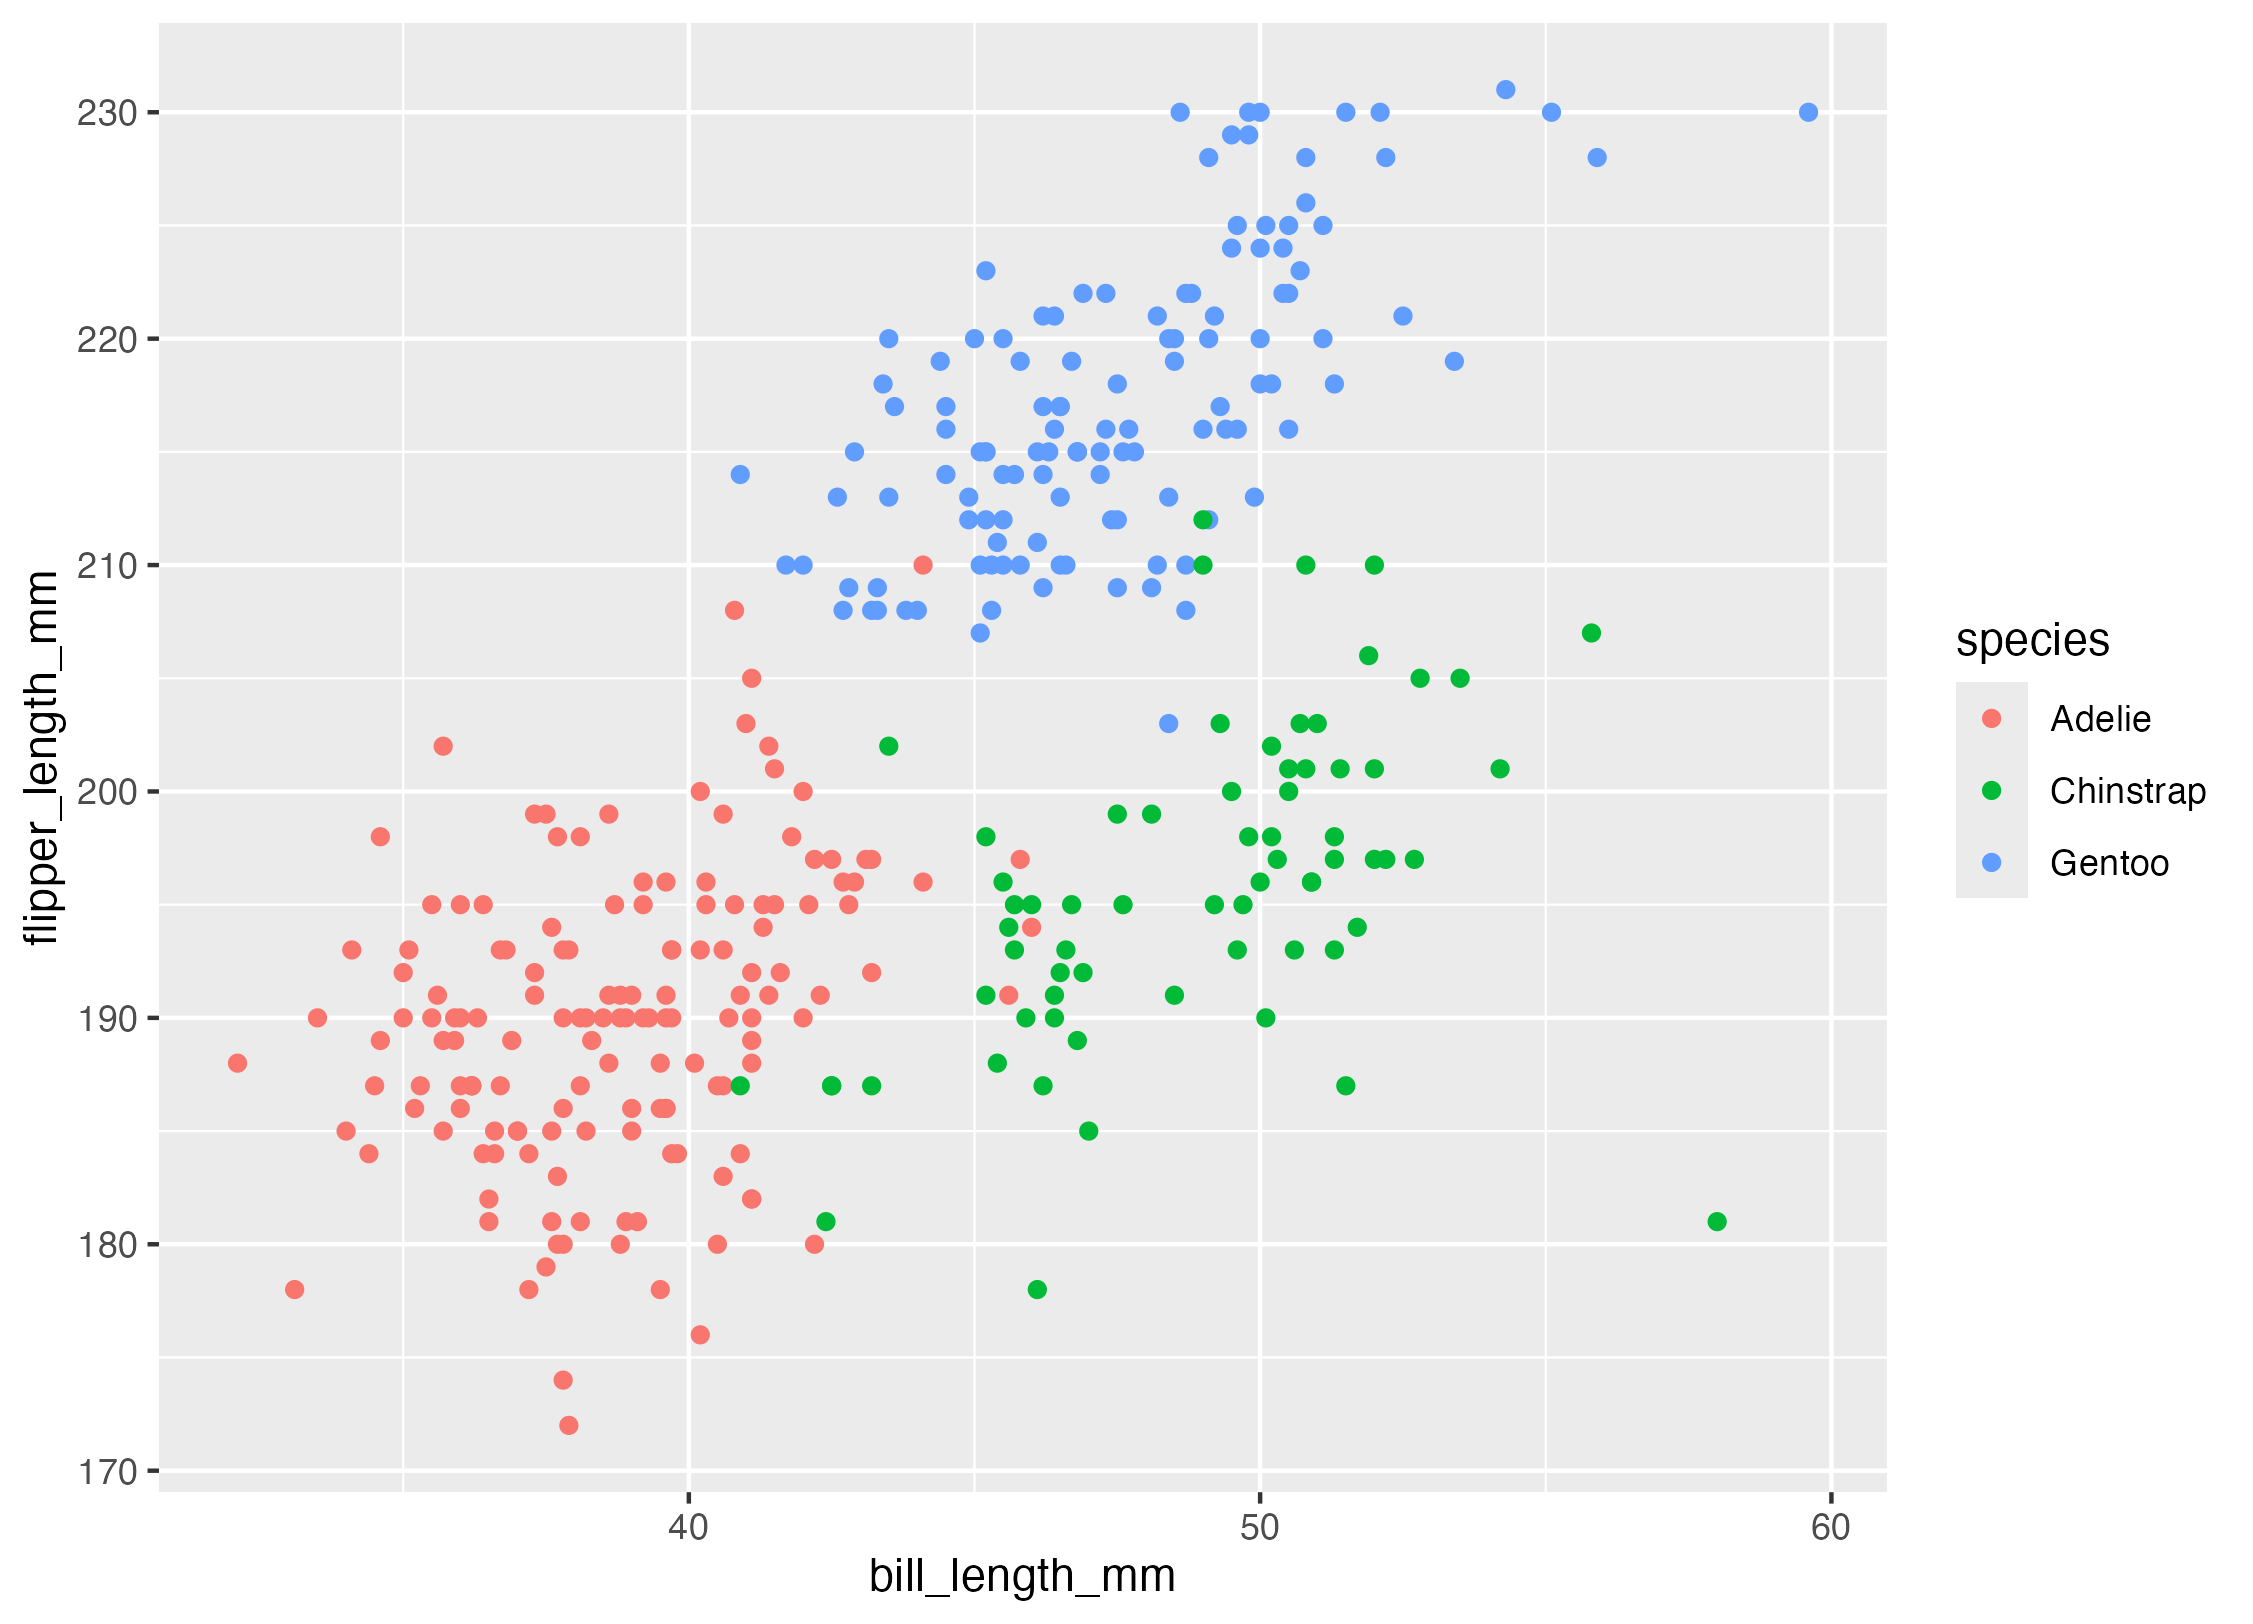
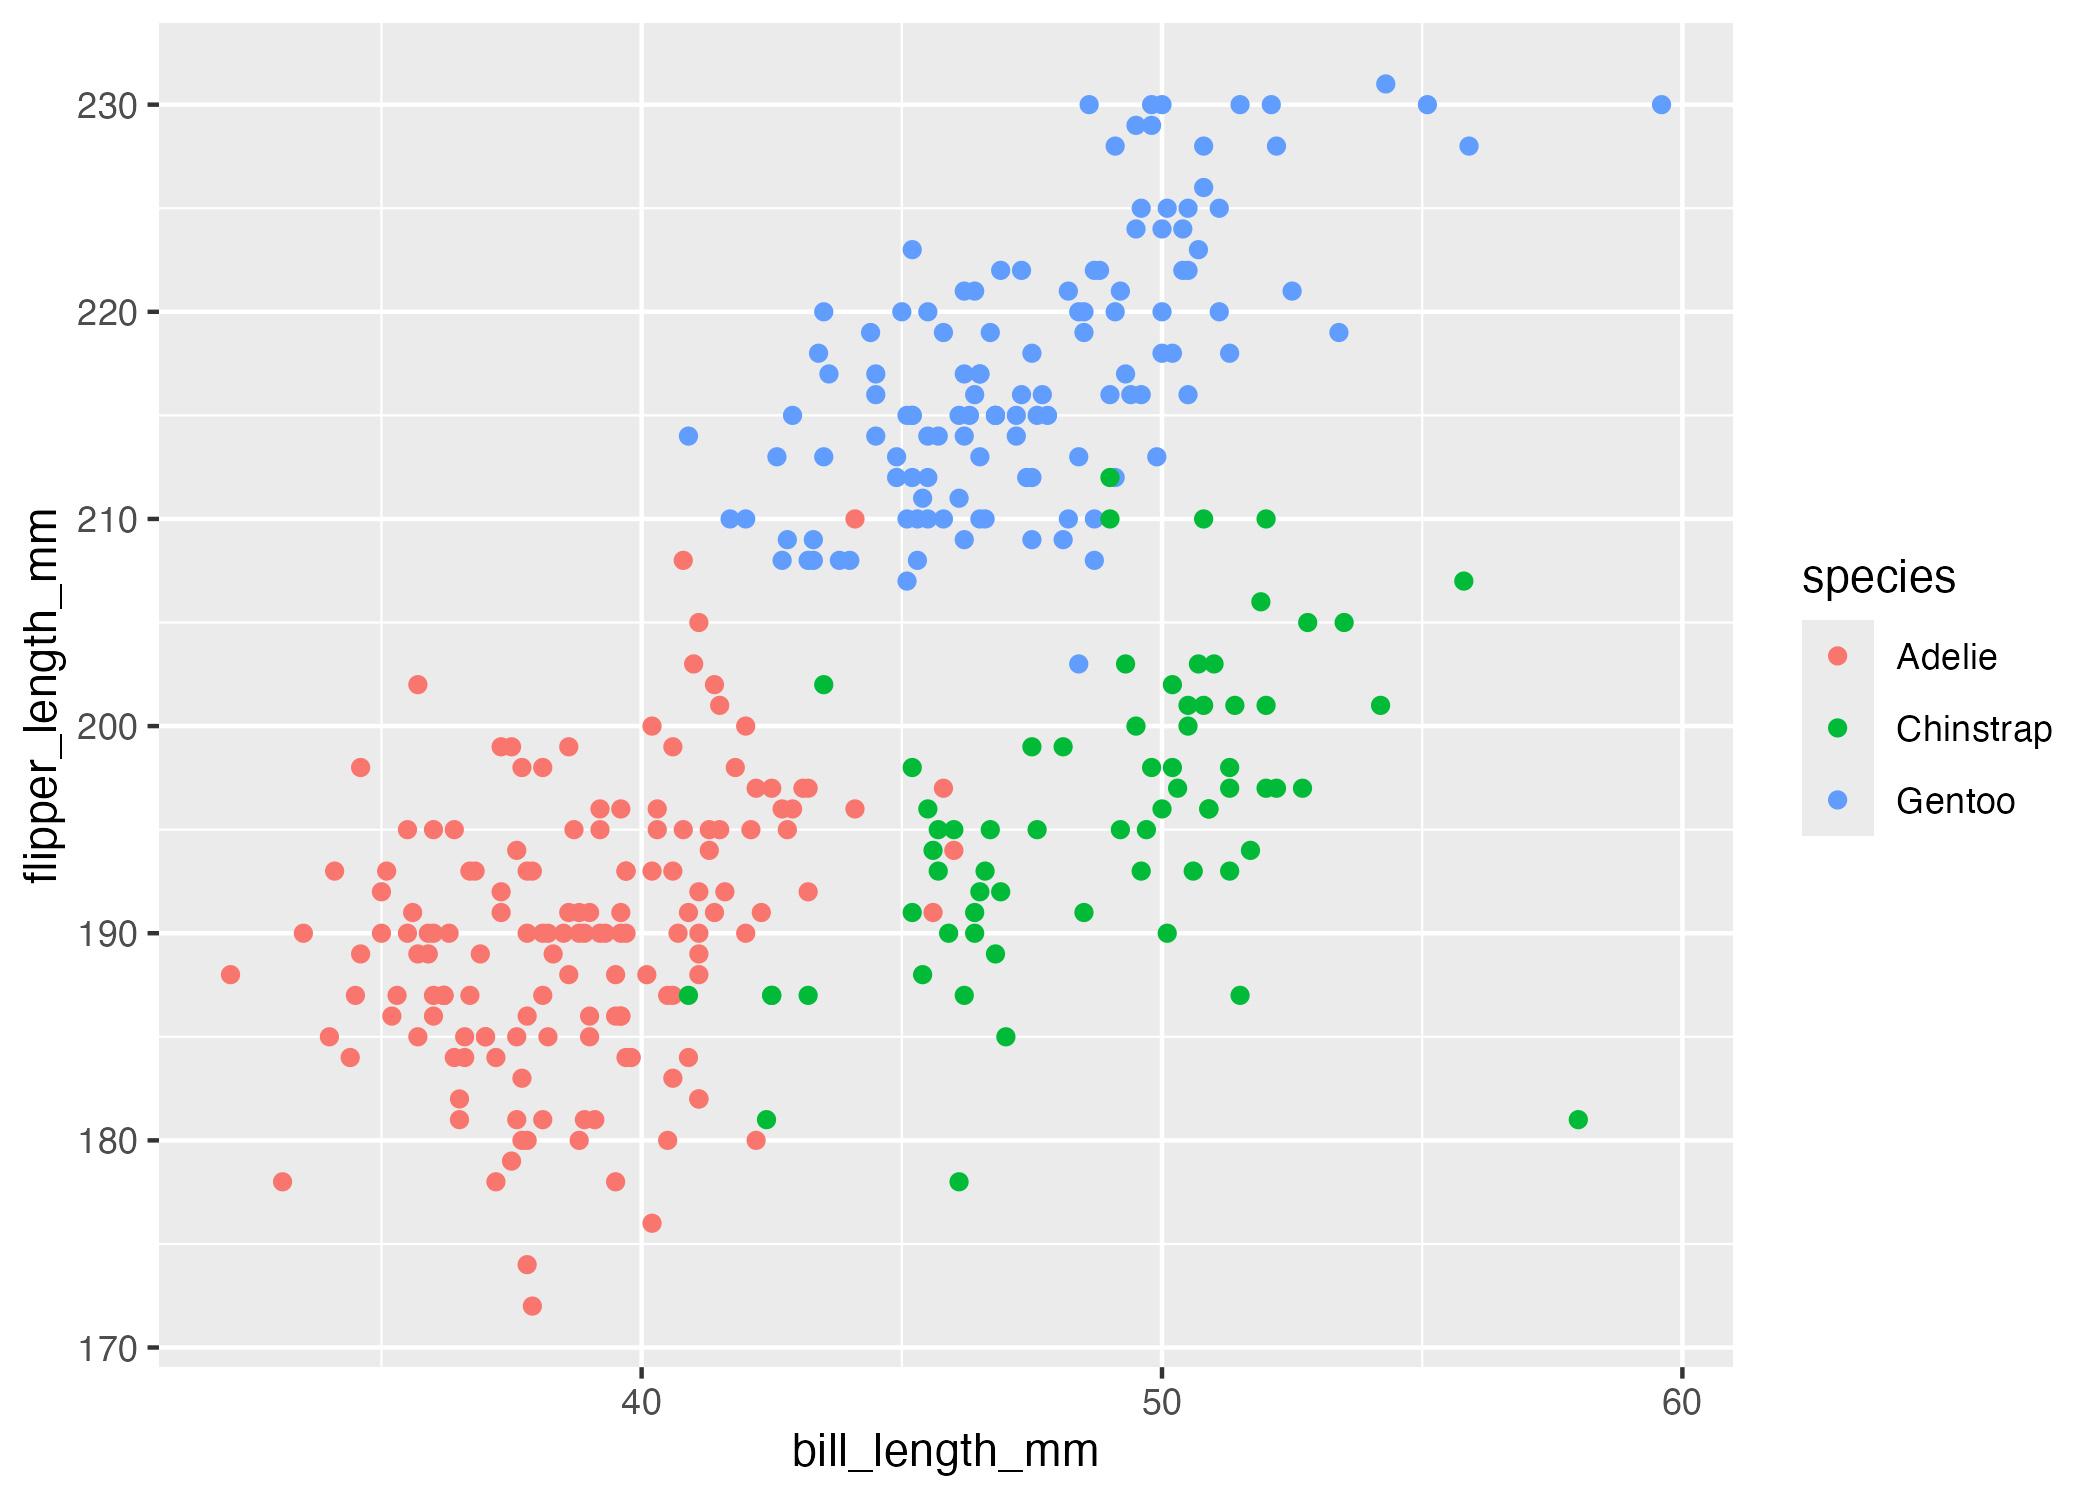
changed document html --> github

diff --git a/p8105_hw1_dt2833.md b/p8105_hw1_dt2833.md
@@ -1,0 +1,153 @@
+Hw01
+================
+Dominique Tzou
+2026-09-26
+
+``` r
+library(tidyverse) #loading in tidyverse, to use the pull function later
+```
+
+    ## ── Attaching core tidyverse packages ──────────────────────── tidyverse 2.0.0 ──
+    ## ✔ dplyr     1.2.1     ✔ readr     2.2.0
+    ## ✔ forcats   1.0.1     ✔ stringr   1.6.0
+    ## ✔ ggplot2   4.0.3     ✔ tibble    3.3.1
+    ## ✔ lubridate 1.9.5     ✔ tidyr     1.3.2
+    ## ✔ purrr     1.2.2     
+    ## ── Conflicts ────────────────────────────────────────── tidyverse_conflicts() ──
+    ## ✖ dplyr::filter() masks stats::filter()
+    ## ✖ dplyr::lag()    masks stats::lag()
+    ## ℹ Use the conflicted package (<http://conflicted.r-lib.org/>) to force all conflicts to become errors
+
+# Problem 1
+
+``` r
+data("penguins", package = "palmerpenguins") #Loading in penguins dataset
+penguins = janitor::clean_names(penguins) #cleaning names
+```
+
+## Summary of the penguin dataset and variables
+
+|                                                  |          |
+|:-------------------------------------------------|:---------|
+| Name                                             | penguins |
+| Number of rows                                   | 344      |
+| Number of columns                                | 8        |
+| \_\_\_\_\_\_\_\_\_\_\_\_\_\_\_\_\_\_\_\_\_\_\_   |          |
+| Column type frequency:                           |          |
+| factor                                           | 3        |
+| numeric                                          | 5        |
+| \_\_\_\_\_\_\_\_\_\_\_\_\_\_\_\_\_\_\_\_\_\_\_\_ |          |
+| Group variables                                  | None     |
+
+Data summary
+
+**Variable type: factor**
+
+| skim_variable | n_missing | complete_rate | ordered | n_unique | top_counts |
+|:---|---:|---:|:---|---:|:---|
+| species | 0 | 1.00 | FALSE | 3 | Ade: 152, Gen: 124, Chi: 68 |
+| island | 0 | 1.00 | FALSE | 3 | Bis: 168, Dre: 124, Tor: 52 |
+| sex | 11 | 0.97 | FALSE | 2 | mal: 168, fem: 165 |
+
+**Variable type: numeric**
+
+| skim_variable | n_missing | complete_rate | mean | sd | p0 | p25 | p50 | p75 | p100 | hist |
+|:---|---:|---:|---:|---:|---:|---:|---:|---:|---:|:---|
+| bill_length_mm | 2 | 0.99 | 43.92 | 5.46 | 32.1 | 39.23 | 44.45 | 48.5 | 59.6 | ▃▇▇▆▁ |
+| bill_depth_mm | 2 | 0.99 | 17.15 | 1.97 | 13.1 | 15.60 | 17.30 | 18.7 | 21.5 | ▅▅▇▇▂ |
+| flipper_length_mm | 2 | 0.99 | 200.92 | 14.06 | 172.0 | 190.00 | 197.00 | 213.0 | 231.0 | ▂▇▃▅▂ |
+| body_mass_g | 2 | 0.99 | 4201.75 | 801.95 | 2700.0 | 3550.00 | 4050.00 | 4750.0 | 6300.0 | ▃▇▆▃▂ |
+| year | 0 | 1.00 | 2008.03 | 0.82 | 2007.0 | 2007.00 | 2008.00 | 2009.0 | 2009.0 | ▇▁▇▁▇ |
+
+Some additional details
+
+- Variables: Variable names include species, island, bill_length_mm,
+  bill_depth_mm, flipper_length_mm, body_mass_g, sex, year
+
+- Years: The data spans from Year 2007 to 2009
+
+- Size: The size of the penguins dataset includes 344 rows and 8
+  columns.
+
+- The mean flipper length is 200.92 mm.
+
+### Scatterplot of flipper_length_mm (y) vs bill_length_mm (x)
+
+``` r
+ggplot(penguins, aes(x = bill_length_mm,  y = flipper_length_mm, color = species))+geom_point()
+```
+
+    ## Warning: Removed 2 rows containing missing values or values outside the scale range
+    ## (`geom_point()`).
+
+![](p8105_hw1_dt2833_files/figure-gfm/scatterplot-1.png)<!-- -->
+
+``` r
+ggsave("hw01_scatterplot.png")
+```
+
+    ## Saving 7 x 5 in image
+
+    ## Warning: Removed 2 rows containing missing values or values outside the scale range
+    ## (`geom_point()`).
+
+# Problem 2
+
+### Creating a dataframe
+
+``` r
+# setting seed to ensure reproducibility
+set.seed(4321)
+
+prob2_df = tibble(
+  norm_samp = rnorm(10),#a random sample of size 10 from a standard Normal distribution
+  norm_samp_pos = norm_samp > 0, #a logical vector indicating whether elements of the sample are greater than 0
+  vec_char = c("cake","cookies", "crepes", "croissants", "creampuff", "cannolli", "cheesecake", "cupcake", "crumble", "cobbler" ), #a character vector of length 10 desserts
+  vec_factor = factor(c("good", "better", "best", "good", "better", "best", "good", "better", "best", "best")) #a factor vector of length 10, with 3 different factor “levels": good, better, best
+)
+
+#taking the mean of each 4 variables
+mean_norm_samp = mean(pull(prob2_df, norm_samp))
+mean_samp_pos = mean(pull(prob2_df, norm_samp_pos))
+mean_vec_char = mean(pull(prob2_df, vec_char))
+```
+
+    ## Warning in mean.default(pull(prob2_df, vec_char)): argument is not numeric or
+    ## logical: returning NA
+
+``` r
+mean_vec_factor = mean(pull(prob2_df, vec_factor))
+```
+
+    ## Warning in mean.default(pull(prob2_df, vec_factor)): argument is not numeric or
+    ## logical: returning NA
+
+### Mean results of variables
+
+The mean for the sample is 0.2811. This works because it is a numerical
+variable.
+
+The mean for the logical vector indicating whether elements of the
+sample are greater than 0 is 0.5. This works because it is a numerical
+variable.
+
+The mean for the character vector is NA. This does not works because it
+is a character variable.
+
+The mean for the factor vector is NA. This does not works because it is
+a character/factor variable.
+
+### Attempting to convert character variables into numeric
+
+``` r
+as.numeric(pull(prob2_df,norm_samp_pos))
+as.numeric(pull(prob2_df,vec_char))
+as.numeric(pull(prob2_df,vec_factor))
+```
+
+When applying the as.numeric function to the logical and factor
+variables, their output categories (often repeated in the dataframe) are
+converted/designated to numerical values, so that a mean can be taken.
+But when as.numeric function is applied to the character variable, it is
+unsuccessful, but of its unique character values. A mean cannot be
+calculated.
